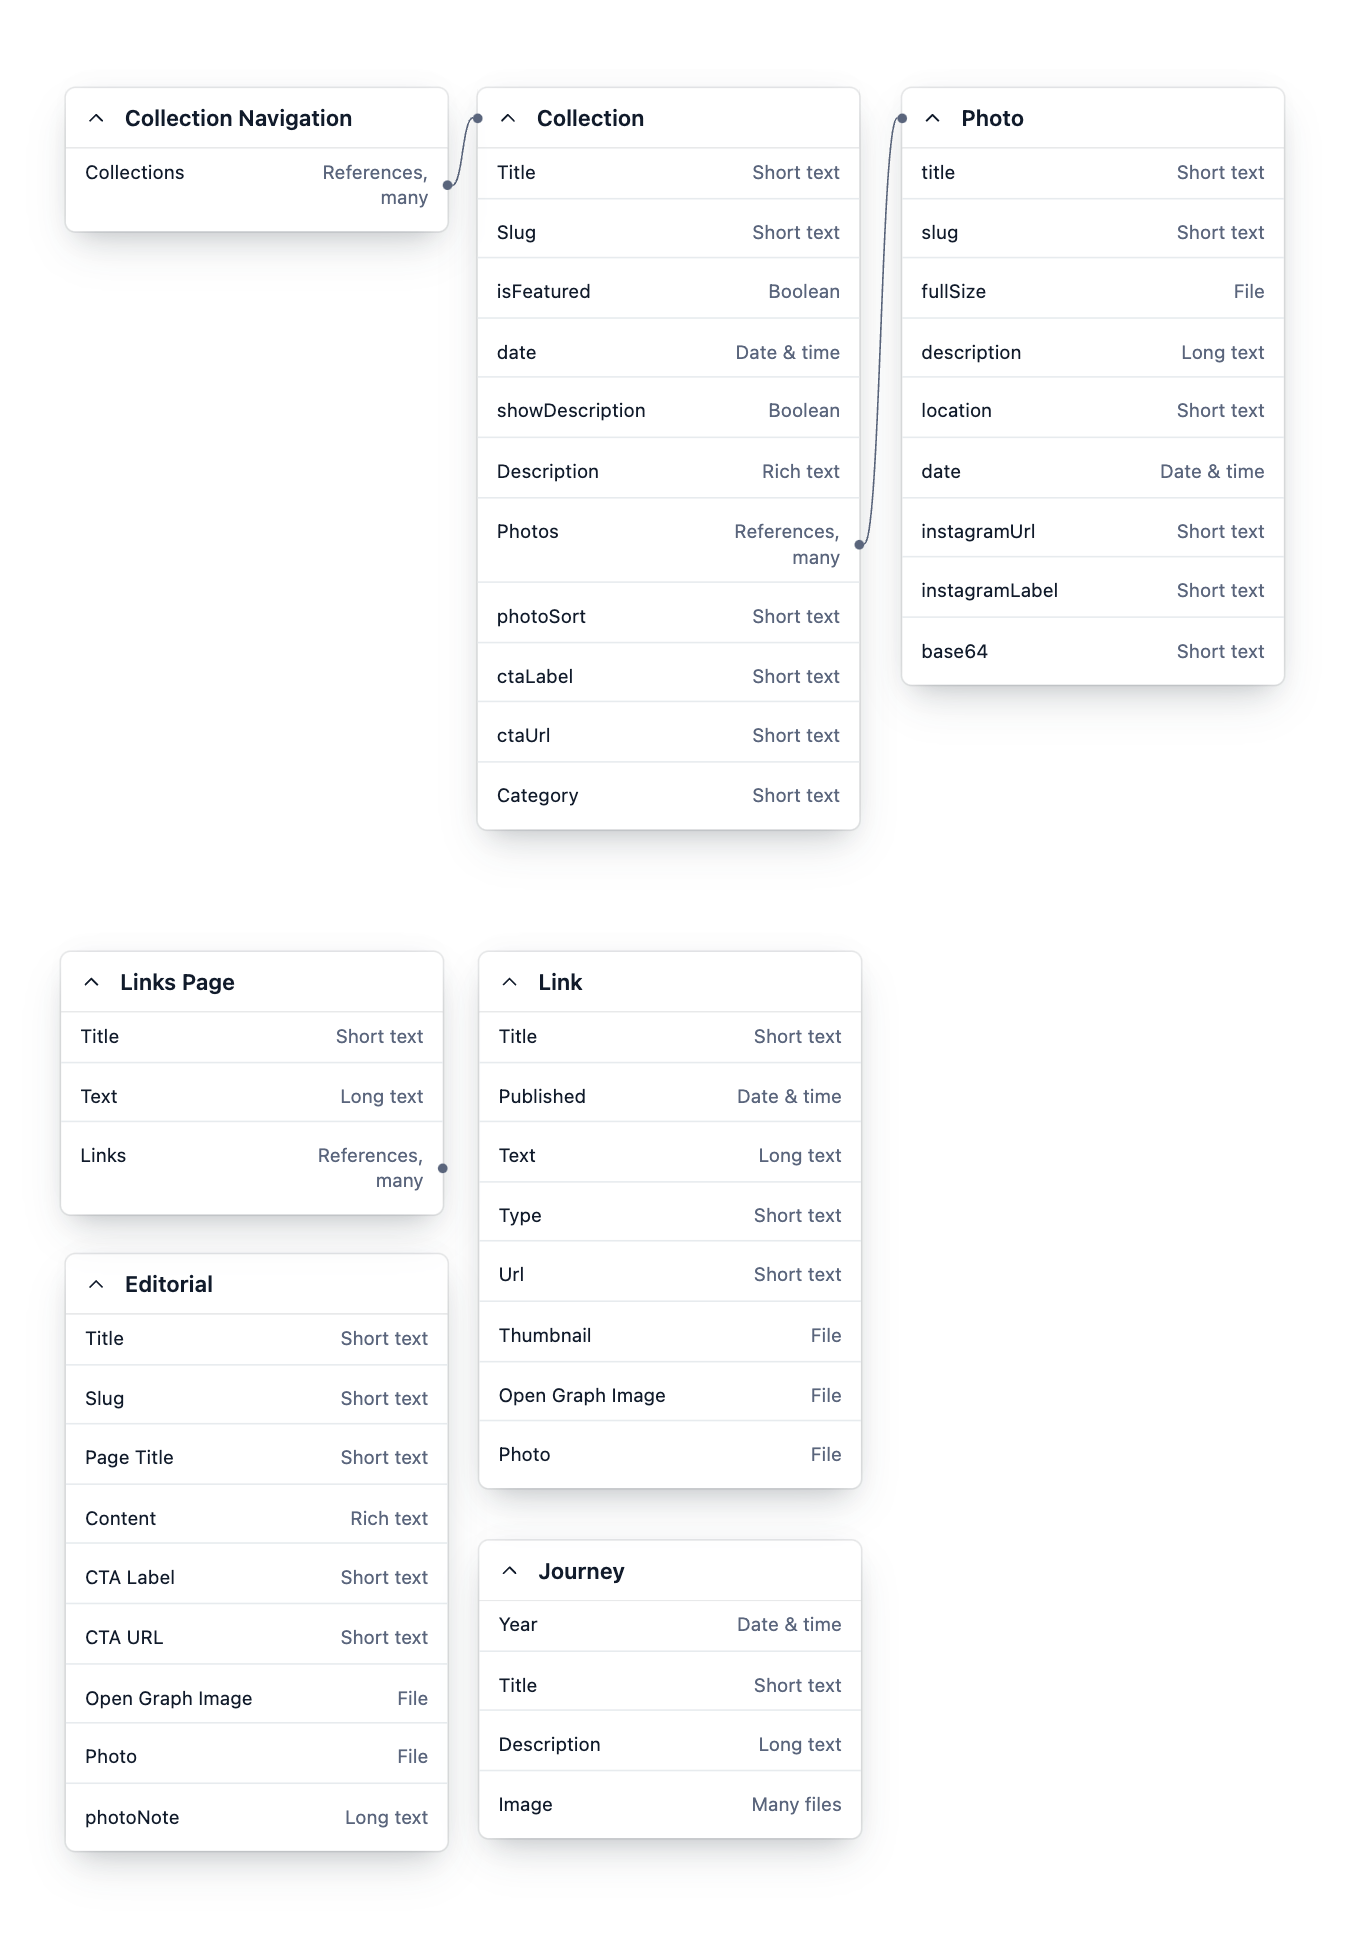
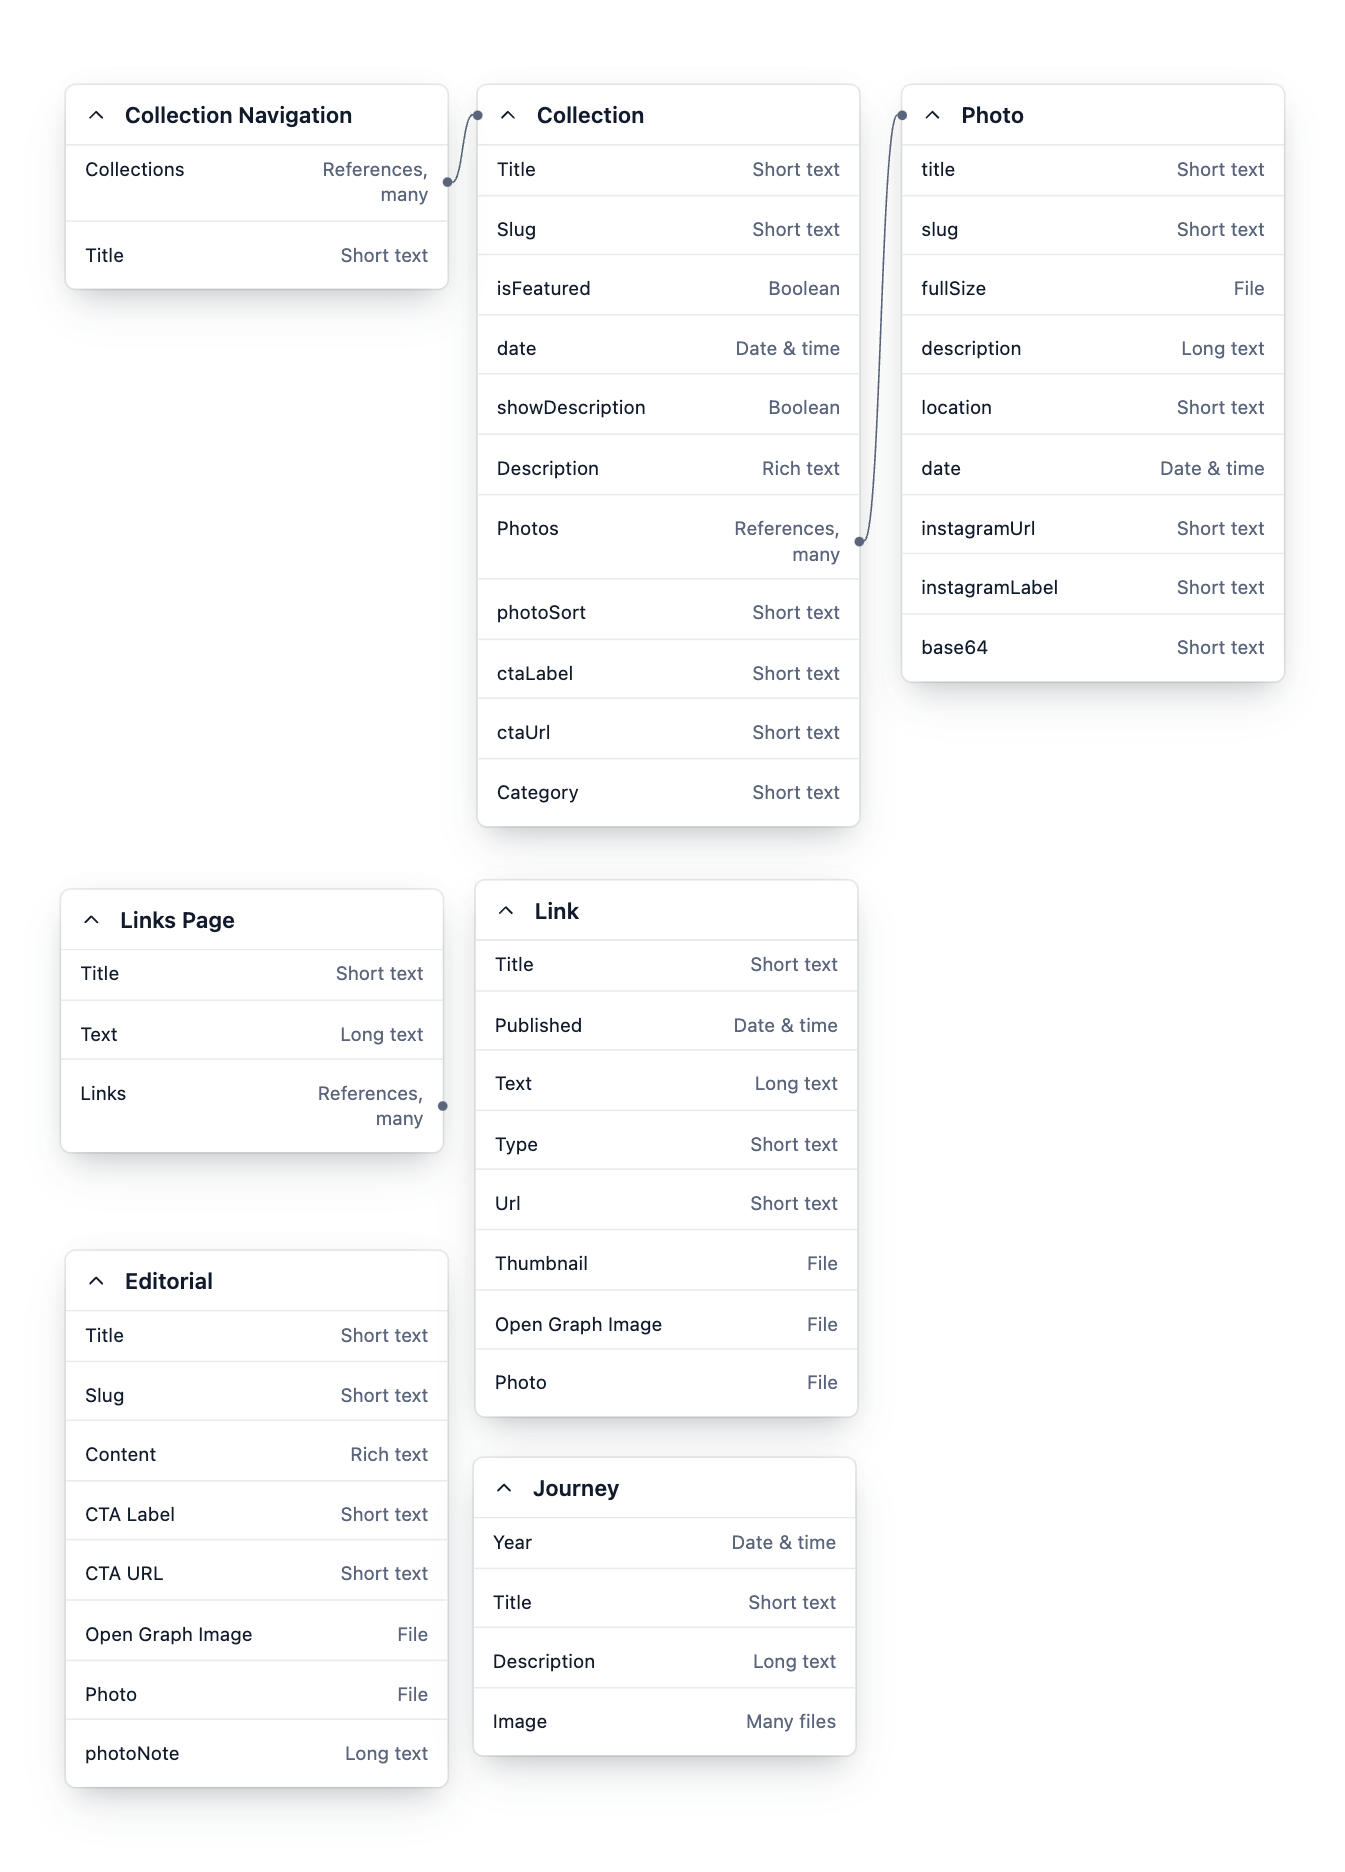
Update fetchEditorialPage and content model

diff --git a/src/app/projects/page.tsx b/src/app/projects/page.tsx
@@ -34,7 +34,7 @@ const ProjectPage = async () => {
 };
 
 export const generateMetadata = async () => {
-    const page = await fetchEditorialPage('home') || {};
+    const page = await fetchEditorialPage('projects') || {};
     return {...config.seo, ...getEditorialSeo(page)};
 };
 
